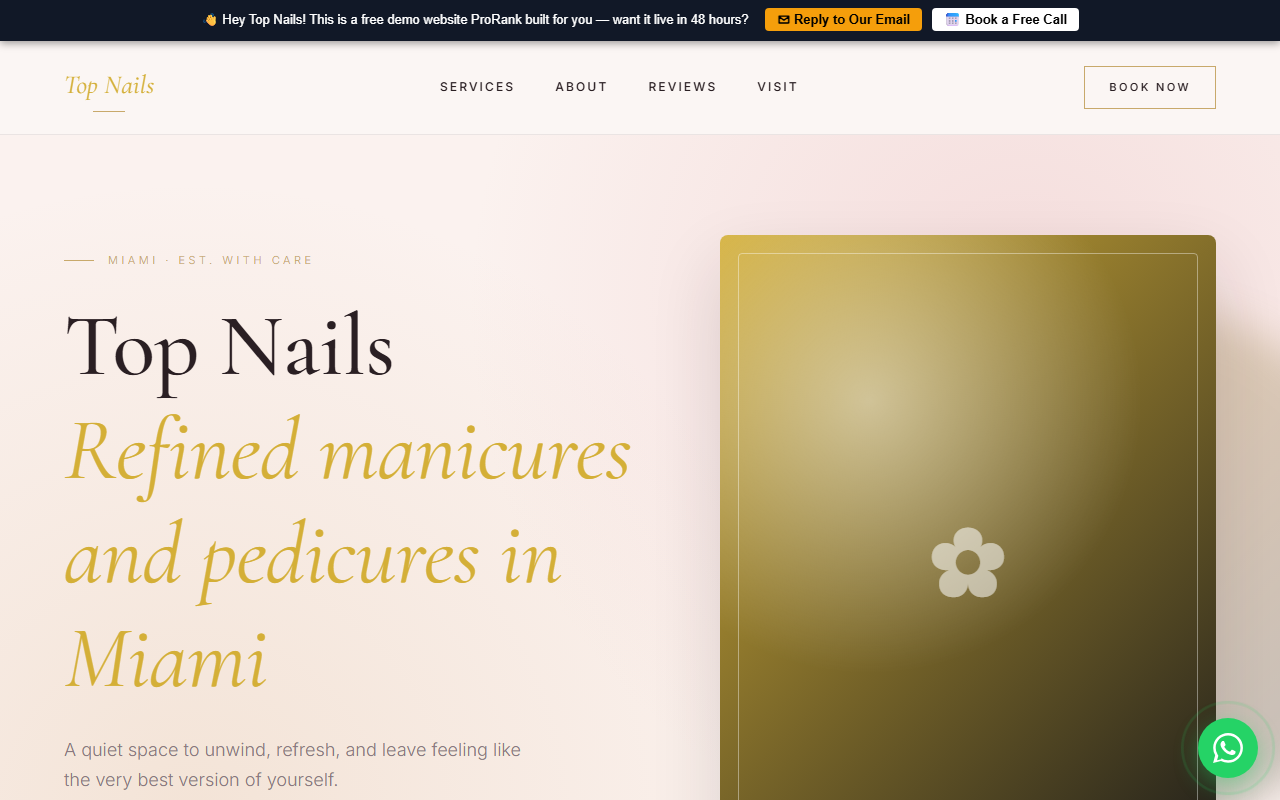
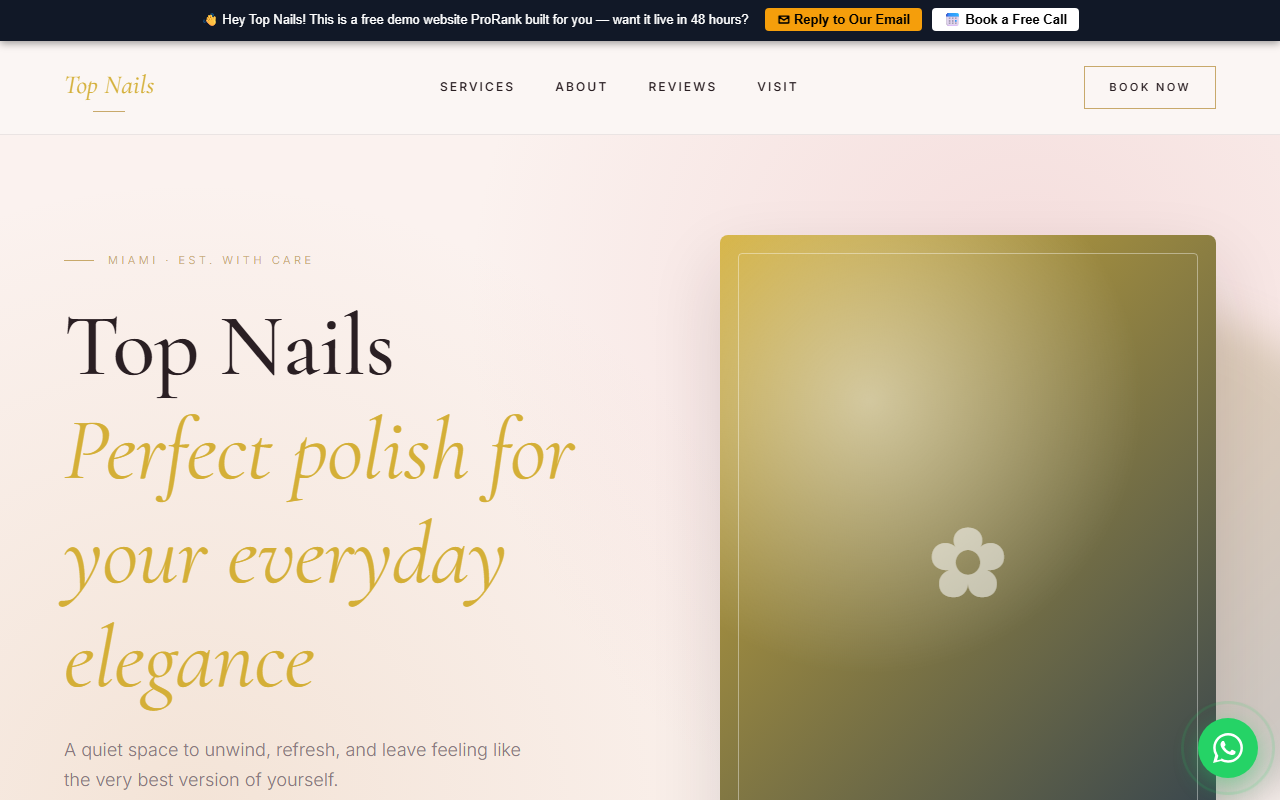
Add demo: top-nails

diff --git a/top-nails/index.html b/top-nails/index.html
@@ -4,14 +4,14 @@
 <meta charset="UTF-8" />
 <meta name="viewport" content="width=device-width, initial-scale=1.0" />
 <title>Top Nails — Miami</title>
-<meta name="description" content="Visit Top Nails for elegant gel manicures and relaxing spa pedicures. Experience premium nail care and expert artistry at our Miami salon today." />
+<meta name="description" content="Visit Top Nails in Miami for expert gel manicures, acrylic extensions, and luxurious pedicures. Experience warm service and premium results on SW 8th St." />
 <link rel="preconnect" href="https://fonts.googleapis.com">
 <link rel="preconnect" href="https://fonts.gstatic.com" crossorigin>
 <link href="https://fonts.googleapis.com/css2?family=Cormorant+Garamond:ital,wght@0,400;0,500;0,600;1,400&family=Inter:wght@300;400;500;600&display=swap" rel="stylesheet">
 <style>
   :root {
     --primary: #D4AF37;
-    --secondary: #1A1A1A;
+    --secondary: #2C3E50;
     --blush: #fbf2ef;
     --pearl: #faf6f3;
     --ink: #2a1f23;
@@ -334,7 +334,7 @@
   <div class="hero-inner">
     <div class="hero-text">
       <div class="eyebrow">Miami · Est. with care</div>
-      <h1>Top Nails<br/><em>Refined manicures and pedicures in Miami</em></h1>
+      <h1>Top Nails<br/><em>Perfect polish for your everyday elegance</em></h1>
       <p class="lede">A quiet space to unwind, refresh, and leave feeling like the very best version of yourself.</p>
       <div class="hero-actions">
         <a href="tel:+13058572205" class="btn btn-primary">Book Appointment</a>
@@ -356,19 +356,19 @@
       <div class="service-card">
         <span class="service-num">— No. 01 —</span>
         <div class="service-icon">✂</div>
-        <h3>Gel polish application</h3>
+        <h3>gel manicures</h3>
         <p>A consultation, a fresh perspective, and a finish that's unmistakably you.</p>
       </div>
       <div class="service-card">
         <span class="service-num">— No. 02 —</span>
         <div class="service-icon">❋</div>
-        <h3>Spa foot treatments</h3>
+        <h3>acrylic extensions</h3>
         <p>Premium products, gentle technique, and results that hold up beautifully.</p>
       </div>
       <div class="service-card">
         <span class="service-num">— No. 03 —</span>
         <div class="service-icon">✿</div>
-        <h3>Nail art design</h3>
+        <h3>luxury pedicures</h3>
         <p>An hour just for you — to relax, refresh, and walk out glowing.</p>
       </div>
     </div>
